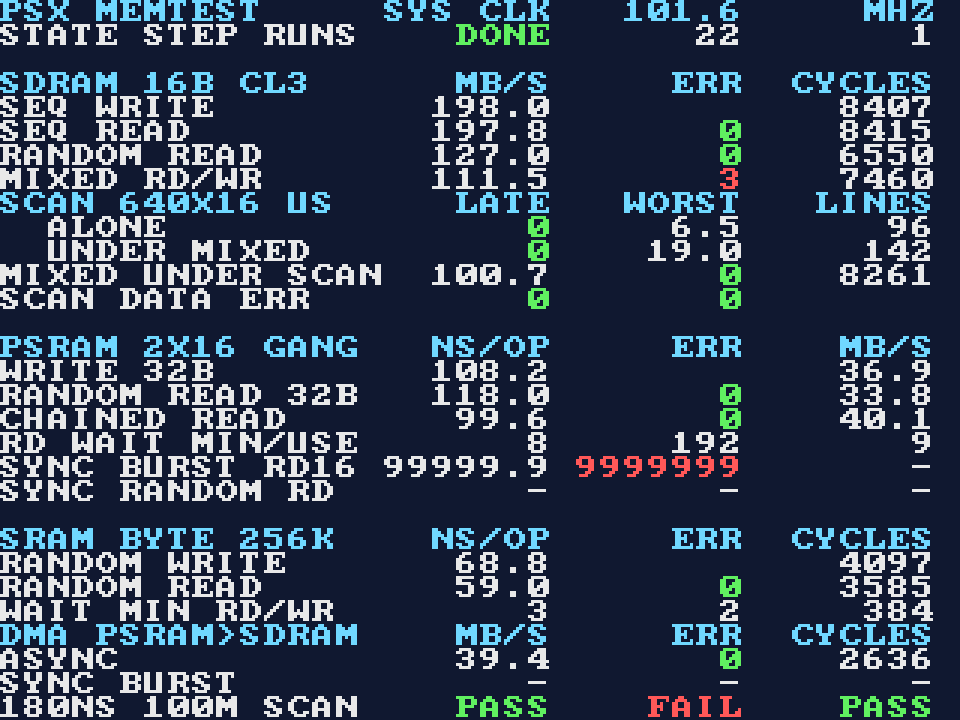
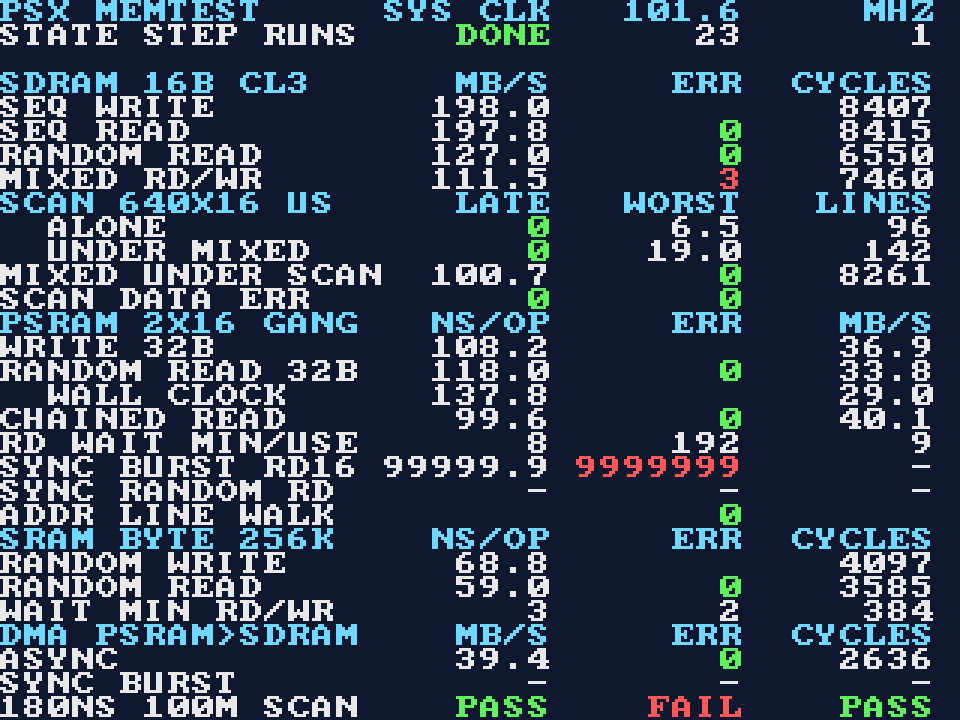
memtest: wall-clock 180 ns gate, 2 MiB address-line walk, stricter SDRAM model
The PSRAM sweep reaches wait 20 and the used wait is never clamped. Random reads and
the fill cover the full 2 MiB per die. The SDRAM model checks the refresh debt and
READ-to-PRE. MEMTEST.md and ROADMAP carry the new gate rule and compile results.

diff --git a/pocket/memtest/tools/gen_screen.py b/pocket/memtest/tools/gen_screen.py
@@ -32,15 +32,15 @@ ROWS = [
     row("  UNDER MIXED"),                                              # 10
     row("MIXED UNDER SCAN", "MB/S", "ERR", "CYCLES"),                  # 11
     row("SCAN DATA ERR"),                                              # 12
-    row(""),                                                           # 13
-    row("PSRAM 2X16 GANG", "NS/OP", "ERR", "MB/S", HEAD),             # 14
-    row("WRITE 32B"),                                                  # 15
-    row("RANDOM READ 32B"),                                            # 16
+    row("PSRAM 2X16 GANG", "NS/OP", "ERR", "MB/S", HEAD),             # 13
+    row("WRITE 32B"),                                                  # 14
+    row("RANDOM READ 32B"),                                            # 15
+    row("  WALL CLOCK"),                                               # 16
     row("CHAINED READ"),                                               # 17
     row("RD WAIT MIN/USE", "MIN", "ERRSUM", "USED"),                      # 18
     row("SYNC BURST RD16"),                                            # 19
     row("SYNC RANDOM RD"),                                             # 20
-    row(""),                                                           # 21
+    row("ADDR LINE WALK"),                                             # 21
     row("SRAM BYTE 256K", "NS/OP", "ERR", "CYCLES", HEAD),            # 22
     row("RANDOM WRITE"),                                               # 23
     row("RANDOM READ"),                                                # 24

diff --git a/docs/pocket/MEMTEST.md b/docs/pocket/MEMTEST.md
@@ -20,10 +20,11 @@ per-run seed), reads it back and counts mismatches, including unknown or floatin
 | SDRAM mixed | 65,536 random bursts, half reads, half writes | MB/s, errors |
 | Scan-out alone | One 640 × 16-bit line (160 bursts) per line period of 6,400 cycles, 96 lines | lines late, worst line time (µs), lines |
 | Scan-out under mixed traffic | The mixed test above runs while the scan-out stream is active | the same, plus the mixed test's MB/s |
-| PSRAM write | 2 × 65,536 single 32-bit writes, both dies | ns per write, MB/s |
-| PSRAM random read | 16,384 single 32-bit reads, random die and address | ns per read, errors, MB/s |
+| PSRAM write | 2 × 524,288 single 32-bit writes, both dies: the whole 2 MiB per die | ns per write, MB/s |
+| PSRAM random read | 16,384 single 32-bit reads, random die and address over the full 2 MiB per die | busy ns per read, wall-clock ns per read, errors, MB/s |
 | PSRAM chained read | 65,536 words as 16-word bursts (CE# held, one address cycle per word) | ns per word, errors, MB/s |
-| PSRAM read-wait sweep | random reads with 5 … 14 cycles from address to sample | smallest safe wait, summed errors, wait used afterwards (smallest + 1) |
+| PSRAM read-wait sweep | random reads with 5 … 20 cycles from address to sample | smallest safe wait (21 = none), summed errors, wait used afterwards (smallest + 1) |
+| PSRAM address-line walk | per die, word 0 and the words 2^0 … 2^18 are written, then all read back; runs at the wait found by the sweep | errors |
 | PSRAM sync burst (optional) | Programs the bus configuration register of both dies, then 16-word synchronous bursts and single-word synchronous reads | ns per word, errors, MB/s |
 | SRAM wait sweep | random byte read and write with 1 … 8 cycles | smallest safe wait for read and for write |
 | SRAM random byte write / read | 65,536 byte accesses at the safe wait + 1 | ns per access, errors |
@@ -35,17 +36,26 @@ its deadline" count.
 
 "ns per access" is the time the controller is busy with an access (command accepted to done), so it
 excludes the test engine's own hand-off cycles. It is a cycle time, not a first-data latency: a
-random PSRAM read at 9 wait cycles is 12 cycles, 118 ns. "MB/s" for PSRAM uses the same busy time,
+random PSRAM read at 9 wait cycles is 12 cycles, 118 ns. The **wall-clock** figure of the PSRAM random read
+is the whole test time divided by the number of reads, so it also counts the 2 hand-off cycles between commands
+(wait + 5 cycles per read, 138 ns at wait 9). "MB/s" for PSRAM uses the busy time (the wall-clock row has its own),
 for SDRAM and DMA the wall-clock time of the whole test.
 
 ### Gate criteria this core measures
 
 | Row on screen | Criterion (ROADMAP, phase 3) | How it is judged |
 |---|---|---|
-| `180NS` (first field) | Ganged PSRAM ≤ 180 ns per random 32-bit read | PSRAM random read ns ≤ 180.0 and no errors |
+| `180NS` (first field) | Ganged PSRAM ≤ 180 ns per random 32-bit read | PSRAM random read **wall-clock** ns ≤ 180.0, no errors in the random reads (full 2 MiB per die) and none in the address-line walk |
 | `100M` (second field) | DMA path ≥ 100 MB/s | DMA MB/s ≥ 100.0 with no verify errors; the best of async and sync counts |
 | `SCAN` (third field) | Scan-out never misses its deadline | no late line alone or under mixed traffic, no data errors anywhere in SDRAM |
 | SDRAM MB/s rows | SDRAM sustains the Phase 2 worst trace | raw MB/s only; the bandwidth figure is supplied by phase 2 |
+
+The 180 ns gate judges wall-clock time because the console's ~177 ns is the time between successive
+random accesses as the CPU sees it, and a requester pays the hand-off cycles around each command as well; busy time
+alone would let a slow part pass. The test engine's 2 hand-off cycles are part of that figure, so it is a conservative
+bound for this controller with the simplest requester. At wait *w* a read takes *w* + 5 cycles: 177.2 ns at *w* = 13
+passes, 187.0 ns at *w* = 14 fails. The wait used is the smallest safe wait + 1 (never clamped), so a part whose smallest
+safe wait is 13 or more fails the gate; the sweep reaches 20, so such a part shows its real figure on screen.
 
 Each gate shows `---` until its tests have run, `PASS` or `FAIL` after. Nothing on this page is a
 hardware result; see [Hardware results](#hardware-results).
@@ -58,17 +68,20 @@ Numbers are right-aligned, `-` means "not run (yet)", green/red marks error coun
 
 | Row (from 0) | Label | Field 1 | Field 2 | Field 3 |
 |---|---|---|---|---|
-| 1 | state step runs | `INIT` / `RUN` / `DONE` | last finished step (22 = all) | runs completed |
+| 1 | state step runs | `INIT` / `RUN` / `DONE` | last finished step (23 = all) | runs completed |
 | 4 | SDRAM SEQ WRITE | MB/s | | cycles |
 | 5–7 | SDRAM SEQ READ, RANDOM READ, MIXED RD/WR | MB/s | errors | cycles |
 | 9 | SCAN ALONE | late lines | worst line time µs | lines |
 | 10 | SCAN UNDER MIXED | late lines | worst line time µs | lines |
 | 11 | MIXED UNDER SCAN | MB/s | errors | cycles |
 | 12 | SCAN DATA ERR | alone | under mixed | |
-| 15 | PSRAM WRITE 32B | ns | | MB/s |
-| 16–17 | PSRAM RANDOM READ 32B, CHAINED READ | ns | errors | MB/s |
-| 18 | RD WAIT MIN/USE | smallest safe wait | sweep errors (expected > 0) | wait used |
+| 14 | PSRAM WRITE 32B | ns | | MB/s |
+| 15 | PSRAM RANDOM READ 32B | busy ns | errors | MB/s |
+| 16 | WALL CLOCK | wall-clock ns per random read (the 180NS figure) | | MB/s |
+| 17 | CHAINED READ | ns | errors | MB/s |
+| 18 | RD WAIT MIN/USE | smallest safe wait (21 = none) | sweep errors (expected > 0) | wait used |
 | 19–20 | SYNC BURST RD16, SYNC RANDOM RD | ns | errors | MB/s |
+| 21 | ADDR LINE WALK | | errors | |
 | 23 | SRAM RANDOM WRITE | ns | | cycles |
 | 24 | SRAM RANDOM READ | ns | errors | cycles |
 | 25 | WAIT MIN RD/WR | smallest safe read wait | smallest safe write wait | sweep errors (expected > 0) |
@@ -149,6 +162,11 @@ The asynchronous sequence (ADV# pulse, address hold, OE# or WE# phasing, 70 ns a
 `wait` is 9 by default (88 ns for a 70 ns access); the sweep finds the smallest value that reads
 correctly and the later tests use that value + 1.
 
+The sweep runs 5 … 20 cycles (5-bit wait field) so that a slow part is seen as slow instead of being clamped.
+Address bits 16 … 18 of the 2 MiB main RAM are the pins `cram_a[18:16]`; the fill, the random reads and the address-line
+walk (word 0, then one set address bit at a time up to bit 18, both dies) drive them, so an open, stuck or swapped
+high address pin shows as errors in the 180NS gate.
+
 **No page mode is used.** With address and data multiplexed, the low address bits share the data pins, so an
 in-page read cannot change only `A[3:0]` while data is out; the device's datasheet was not available to check
 whether it offers one anyway. The "chained" read is the closest this bus allows (it saves chip-select setup only):
@@ -218,8 +236,8 @@ successful, no critical warnings, timing met on every clock in all four models (
 
 | Resource | Used |
 |---|---|
-| ALMs | 2,908 / 18,480 (16%) — memtest core 2,245 (of which SDRAM controller 290, traffic/scan engines 346, PSRAM 141 + 328 engine, SRAM 22 + 258 engine, DMA 158, divider 87), screen formatter 147, video 57, APF bridge 199, rest of the APF framework 187 |
-| Registers | 4,422 |
+| ALMs | 3,070 / 18,480 (17%) — memtest core 2,383 (of which SDRAM controller 252, traffic/scan engines 358, PSRAM 149 + 481 engine, SRAM 22 + 247 engine, DMA 155, divider 88), screen formatter 150, video 58, APF bridge 209, everything else (APF framework, `core_top` glue) 271 |
+| Registers | 4,707 |
 | Block memory | 45,040 bits in 11 M10K / 308 (font 8 Kb, label ROM 9.6 Kb, text RAM 9 Kb, two result copies 2 × 4.2 Kb, DMA FIFO 1.4 Kb, APF data table 8 Kb) |
 | DSP | 0 |
 | PLL | 1 fractional, VCO 812.8512 MHz; outputs 101.6064 MHz (0°), 101.6064 MHz (225°, SDRAM pin clock), 101.6064 MHz (39.4°, read capture), 6.3504 MHz (0°), 6.3504 MHz (90°) |
@@ -230,14 +248,14 @@ models, hold the fast ones, as the analyser does.
 
 | Clock | Worst setup | Worst hold |
 |---|---|---|
-| `clk_sys` 101.6064 MHz | +0.794 ns (slow 0 °C) | +0.123 ns (fast 0 °C) |
+| `clk_sys` 101.6064 MHz | +0.814 ns (slow 85 °C) | +0.100 ns (fast 0 °C) |
 | `clk_cap` SDRAM read capture, 101.6064 MHz | +0.575 ns (slow 0 °C), from the SDRAM data pins | +0.785 ns (fast 0 °C) |
 | `clk_sd` SDRAM clock source | no register paths; minimum pulse width +3.8 ns | |
-| `dram_clk_pin` (SDRAM command, address and write data pins) | +2.779 ns (slow 85 °C) | +2.334 ns (slow 0 °C) |
-| `clk_vid` 6.3504 MHz | +148.05 ns | +0.175 ns (fast 0 °C) |
+| `dram_clk_pin` (SDRAM command, address and write data pins) | +2.775 ns (slow 85 °C) | +2.334 ns (slow 0 °C) |
+| `clk_vid` 6.3504 MHz | +149.71 ns | +0.176 ns (fast 0 °C) |
 | `clk_vid_90` | no register paths | |
-| `clk_74a` | +5.427 ns | +0.132 ns (fast 0 °C) |
-| `bridge_spiclk` | +9.778 ns | +0.171 ns (fast 0 °C) |
+| `clk_74a` | +4.725 ns | +0.168 ns (fast 0 °C) |
+| `bridge_spiclk` | +10.275 ns | +0.154 ns (fast 0 °C) |
 
 Minimum pulse width is positive on every clock (smallest +0.615 ns, on the VCO). The SDRAM pins are timed with
 tAC 6.4 / tOH 3.2 / tIS 1.5 / tIH 0.8 ns assumptions in `core_constraints.sdc`; the read-capture slacks (+0.58 setup,
@@ -252,18 +270,24 @@ hold check give positive margin on every read, command and internal path.
 ## Verification
 
 Behavioural models in `sim/` (`sdram_model.v`, `psram_model.v`, `sram_model.v`) check the controllers against the
-numbers above and flag every violation: SDRAM tRCD, tRP, tRAS, tRC, tRRD, tRFC, tWR, refresh interval, mode register
+numbers above and flag every violation: SDRAM tRCD, tRP, tRAS, tRC, tRRD, tRFC, tWR, READ to PRE (≥ BL cycles), PRE during a write burst,
+refresh rate (average tREFI 7.8125 µs, at most 8 refreshes postponed), mode register
 order, bank state, unknown write data, bus overlap; PSRAM tVP, tAVS, tAVH, tWP, tDW, tAW, access time, die select,
 register write and the synchronous burst; SRAM access time and write pulse width. Unknown data read back counts as an error.
 
 | Simulation (`sim/run.sh <mode>`) | What it covers | Result |
 |---|---|---|
-| `fast` | whole core, reduced sizes, async PSRAM | PASS, 129,945 cycles |
-| `sync` | same plus the synchronous PSRAM tests and DMA | PASS, 135,825 cycles |
+| `fast` | whole core, reduced sizes (PSRAM fill 256 words per die; the address-line walk always reaches bit 18), async PSRAM | PASS, 139,742 cycles |
+| `sync` | same plus the synchronous PSRAM tests and DMA | PASS, 145,622 cycles |
 | `late` | scan-out line period shortened below what a line needs: late lines must be counted, the gate must fail | PASS: 4 of 4 lines late, scan gate FAIL |
-| `full`, `fullsync` | the sizes the hardware runs (1 MiB, 65,536 words, …) | both PASS: 9.26 M cycles (91 ms) with sync, 8.54 M (84 ms) without; all errors 0, no model violations |
+| `full`, `fullsync` | the sizes the hardware runs (1 MiB SDRAM, 2 MiB per PSRAM die, 65,536 words, …) | both PASS: 21.46 M cycles (211 ms) with sync, 20.74 M (204 ms) without; all errors 0, no model violations; about 5.5 min of Icarus time each |
+| `fast` with `-DPS_STUCK_BIT=18` (or 16) | the PSRAM model forces word address bit 18 (16) to 0 (`-DPS_STUCK_HI`: to 1) | PASS = the fault is caught: walk errors 2, 180NS gate FAIL |
+| `fast` with `-DPS_TAA=<ns>` | PSRAM model access time instead of 70 ns; the sweep must find a larger wait | 110: smallest safe wait 12, used 13, wall 177.1 ns, gate PASS (`-DPS_GATE_PASS`); 120: 13 / 14 / 187.0 ns, FAIL; 140: 15 / 16 / 206.6 ns, FAIL; 190: 20 / 21 / 255.8 ns, FAIL |
 | `tb_screen.v` | result store → formatter → text RAM → video frame, number formats, a rendered frame | PASS |
 | `tb_div.v` | the divider against `/` on 2,000 random operands and divide by zero | PASS |
+
+The `PS_STUCK_BIT`, `PS_STUCK_HI`, `PS_TAA` and `PS_GATE_PASS` defines go through `EXTRA`, e.g.
+`EXTRA="-DPS_STUCK_BIT=18" sim/run.sh fast`.
 
 What the full-size simulation reports (behavioural models at 101.6064 MHz; **not** hardware, shown to make the units
 and the expected shape of the results concrete):
@@ -273,7 +297,7 @@ and the expected shape of the results concrete):
 | SDRAM seq write / read | 197.8 / 198.4 MB/s (bus limit 203) |
 | SDRAM random read, mixed, mixed under scan-out | 93.0, 88.2, 74.6 MB/s |
 | Scan-out line time, alone / under mixed traffic | 6.6 µs / 25.9 µs of 63 µs, no late line |
-| PSRAM write / random read / chained read | 108 ns / 118 ns / 99.6 ns per word (36.9 / 33.8 / 40.1 MB/s) |
+| PSRAM write / random read (busy) / chained read | 108 ns / 118 ns / 99.6 ns per word (36.9 / 33.8 / 40.1 MB/s); random read wall-clock 137.7 ns |
 | PSRAM sync burst (latency 3, 50.8 MHz clock) | 25.8 ns per word, 154.8 MB/s; single-word read 118 ns |
 | SRAM random byte write / read | 68.8 / 59.0 ns (model access time 25 ns, smallest safe wait 3 read, 2 write) |
 | DMA PSRAM → SDRAM, async / sync | 39.6 / 147.7 MB/s |
@@ -294,7 +318,8 @@ Every cell needs a Pocket.
 | Scan-out late lines, alone / under mixed | pending — needs a Pocket | 0 |
 | Scan-out worst line time µs | pending — needs a Pocket | < 63 |
 | SDRAM errors | pending — needs a Pocket | 0 |
-| PSRAM random read ns | pending — needs a Pocket | ≤ 180 |
+| PSRAM random read ns, busy / wall-clock | pending — needs a Pocket | wall-clock ≤ 180 |
+| PSRAM address-line walk errors | pending — needs a Pocket | 0 |
 | PSRAM chained read ns per word, MB/s | pending — needs a Pocket | |
 | PSRAM smallest safe read wait (cycles) | pending — needs a Pocket | |
 | PSRAM write ns | pending — needs a Pocket | |
@@ -307,7 +332,7 @@ Every cell needs a Pocket.
 ## Not verified
 
 - Everything above on real hardware, in particular SDRAM clock phase and CL 3 at 101.6 MHz, PSRAM access time
-  and the 5 … 14 cycle sweep window, SRAM speed.
+  and the 5 … 20 cycle sweep window, SRAM speed.
 - The PSRAM bus configuration register layout, the maximum synchronous clock, and whether fixed-latency burst reads work at all.
 - Datasheet figures for the SDRAM and PSRAM are from memory of the usual part families; the Pocket's exact part
   numbers were not looked up.

diff --git a/docs/pocket/ROADMAP.md b/docs/pocket/ROADMAP.md
@@ -60,7 +60,7 @@ A small Pocket core with no PSX logic. It exercises the memory plan on the real 
 
 It reports measured MB/s and latency on screen.
 
-**Gate:** SDRAM sustains the Phase 2 worst trace · ganged PSRAM ≤ 180 ns per random 32-bit read
+**Gate:** SDRAM sustains the Phase 2 worst trace · ganged PSRAM ≤ 180 ns wall-clock per random 32-bit read over the whole main RAM
 (original console: ~177 ns) · DMA path ≥ 100 MB/s, or a measured slowdown judged acceptable.
 
 ### Phase 4 — Strip the rest
@@ -114,8 +114,8 @@ Record each gate's measured numbers here when its phase ends.
 |---|---|---|---|---|---|---|
 | 0 — sizing | measured | 26,135 (options off) | 83 | ~1.9 Mbit | n/a | 2026-10-07 |
 | 1 — GTE | **PASS** | 2,490.8 needed (golden 3,917.6) | 3 (golden 15) | 9 blocks, 49,841 bits | clk2x +2.025 ns slow 85 °C, +1.599 ns slow 0 °C; hold ≥ +0.125 ns | 2026-10-07 |
-| 2 — GPU | **FAIL**: area, and worst trace 98.5% of SDRAM at 101.6 MHz (73.9% at 135.5 MHz); bit-exact, setup within reference | 4,785.3 needed (golden 5,481.4) | 10 (golden 32) | 27 (golden 27) | clk2x +0.763 ns slow 85 °C, +0.411 ns slow 0 °C; hold ≥ +0.079 ns | 2026-10-08 |
-| 3 — memory test core | built, **pending hardware** | 2,908 (whole core) | — | — | met on every clock, all four corners | 2026-10-07 |
+| 2 — GPU | **FAIL**: area, and worst synthetic trace 98.5% of SDRAM at 101.6 MHz (82.3% with an ideal controller; 73.9% at 135.5 MHz); bit-exact, setup within reference | 4,785.3 needed (golden 5,481.4) | 10 (golden 32) | 27 (golden 27) | clk2x +0.763 ns slow 85 °C, +0.411 ns slow 0 °C; hold ≥ +0.079 ns | 2026-10-08 |
+| 3 — memory test core | built, **pending hardware** | 3,070 (whole core) | — | — | met on every clock, all four corners | 2026-10-08 |
 
 Phase 2 failed its gate, so phases 4–7 have not started. Details: [GPU.md](GPU.md#measurements),
 [MEMTEST.md](MEMTEST.md).
